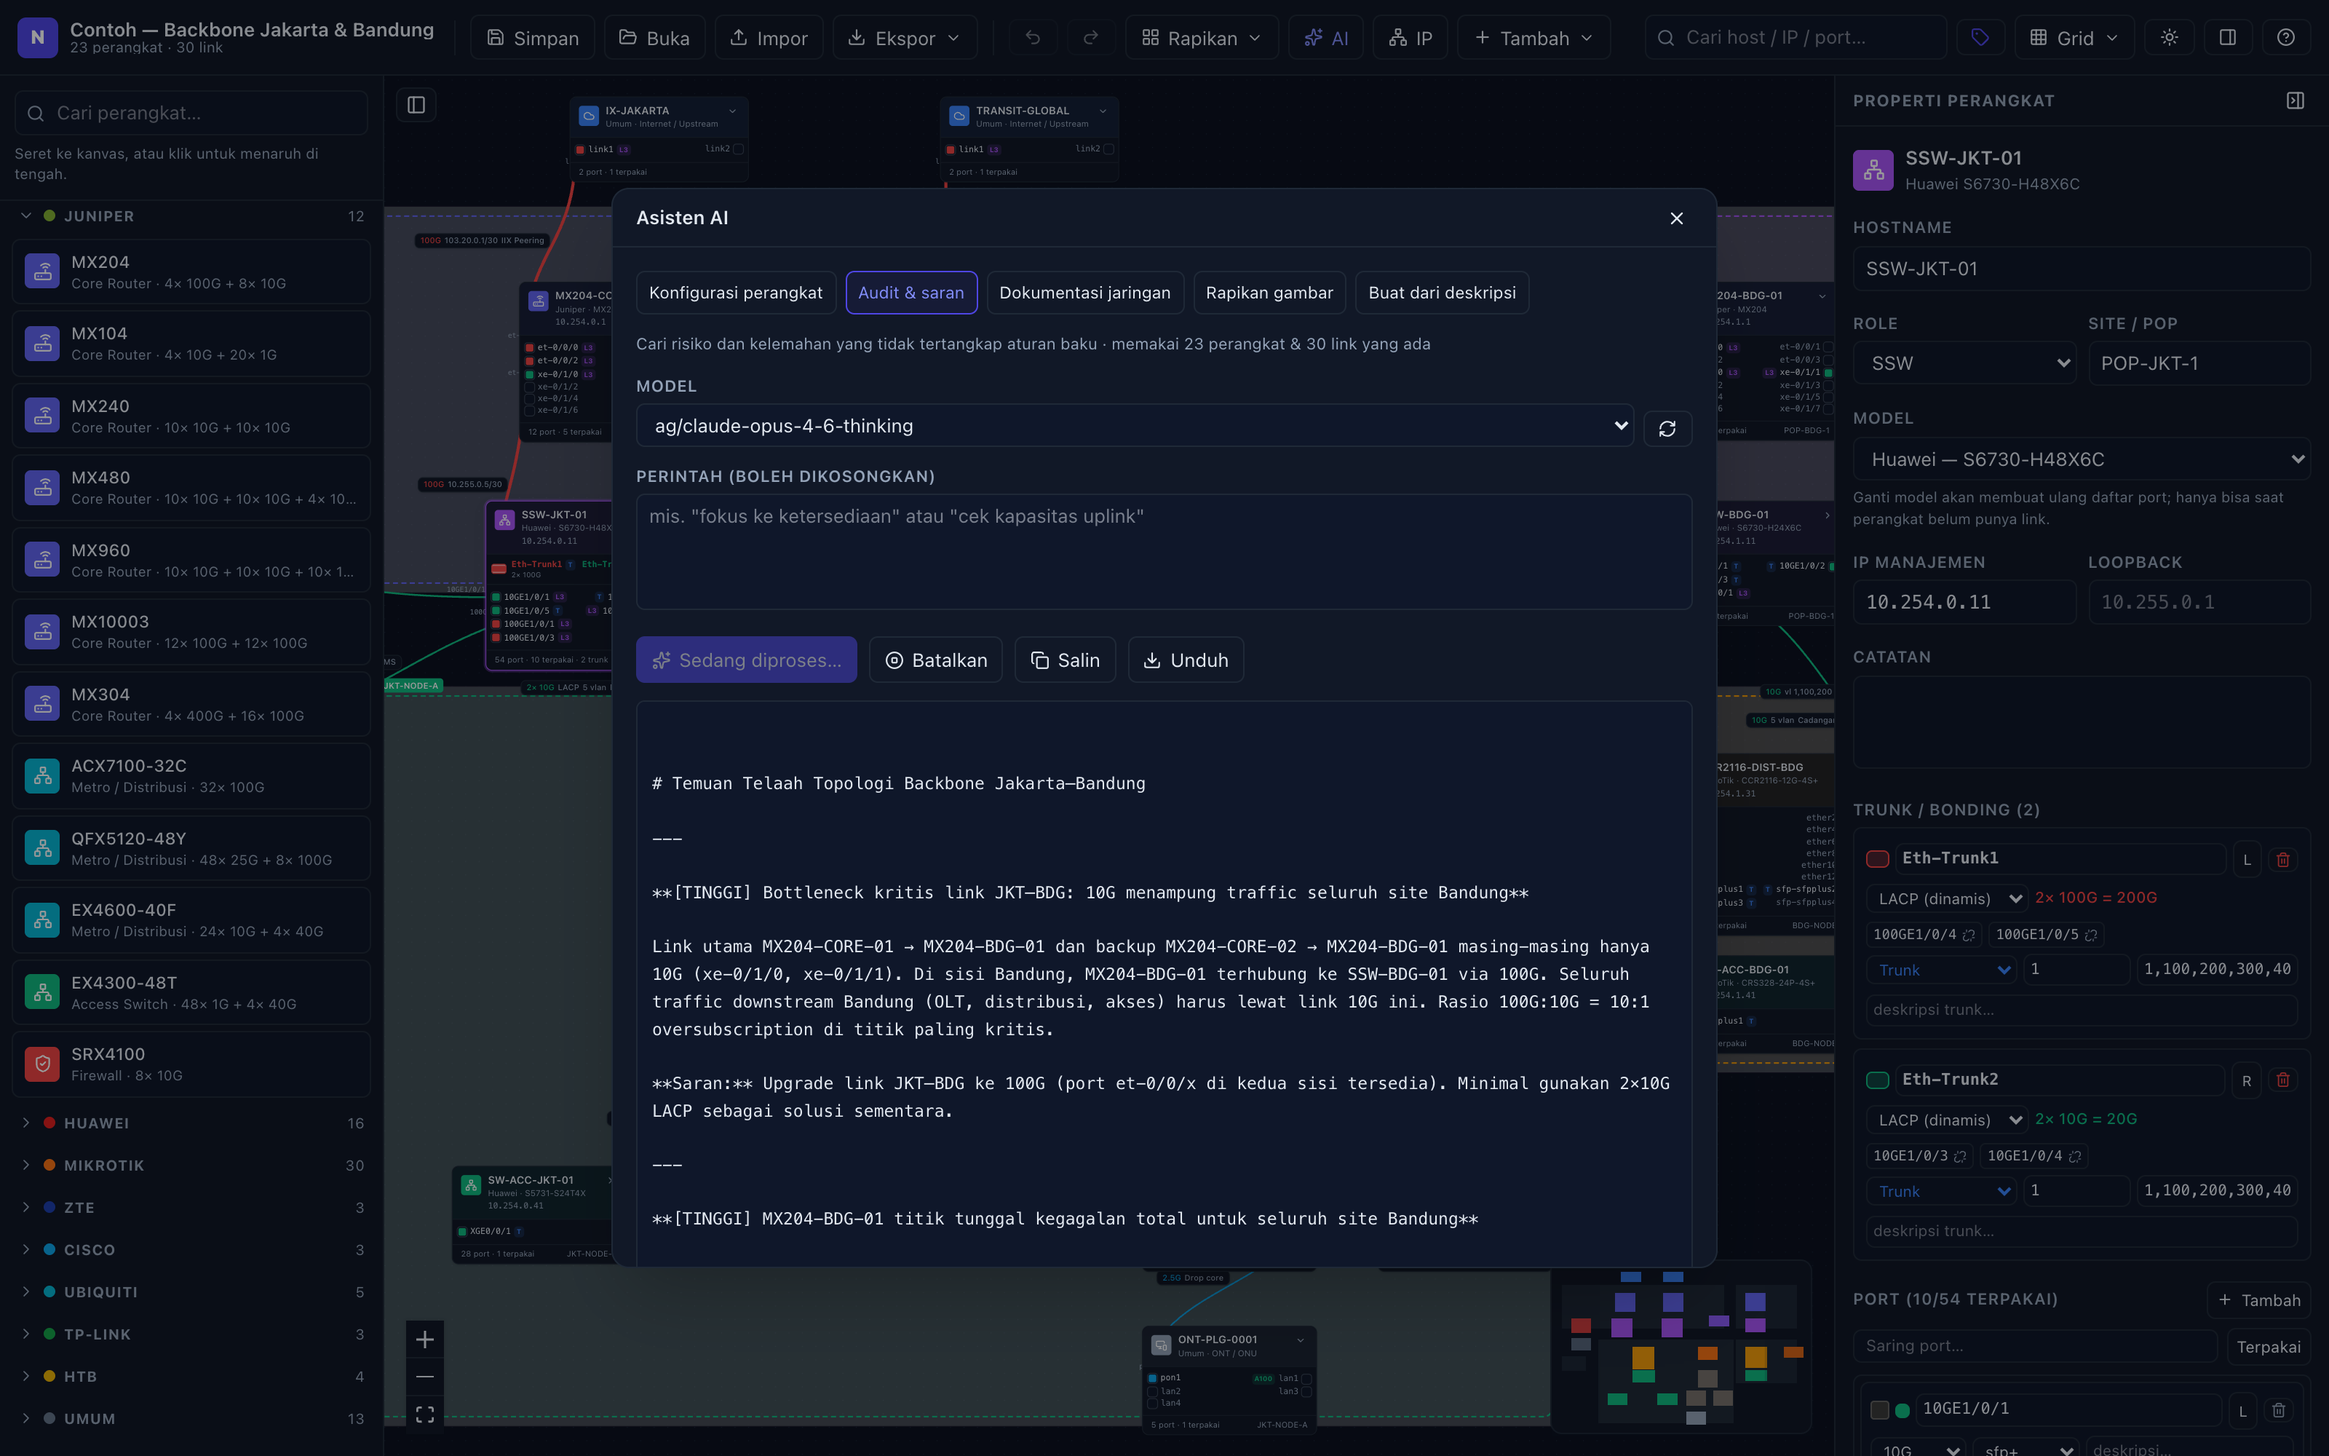
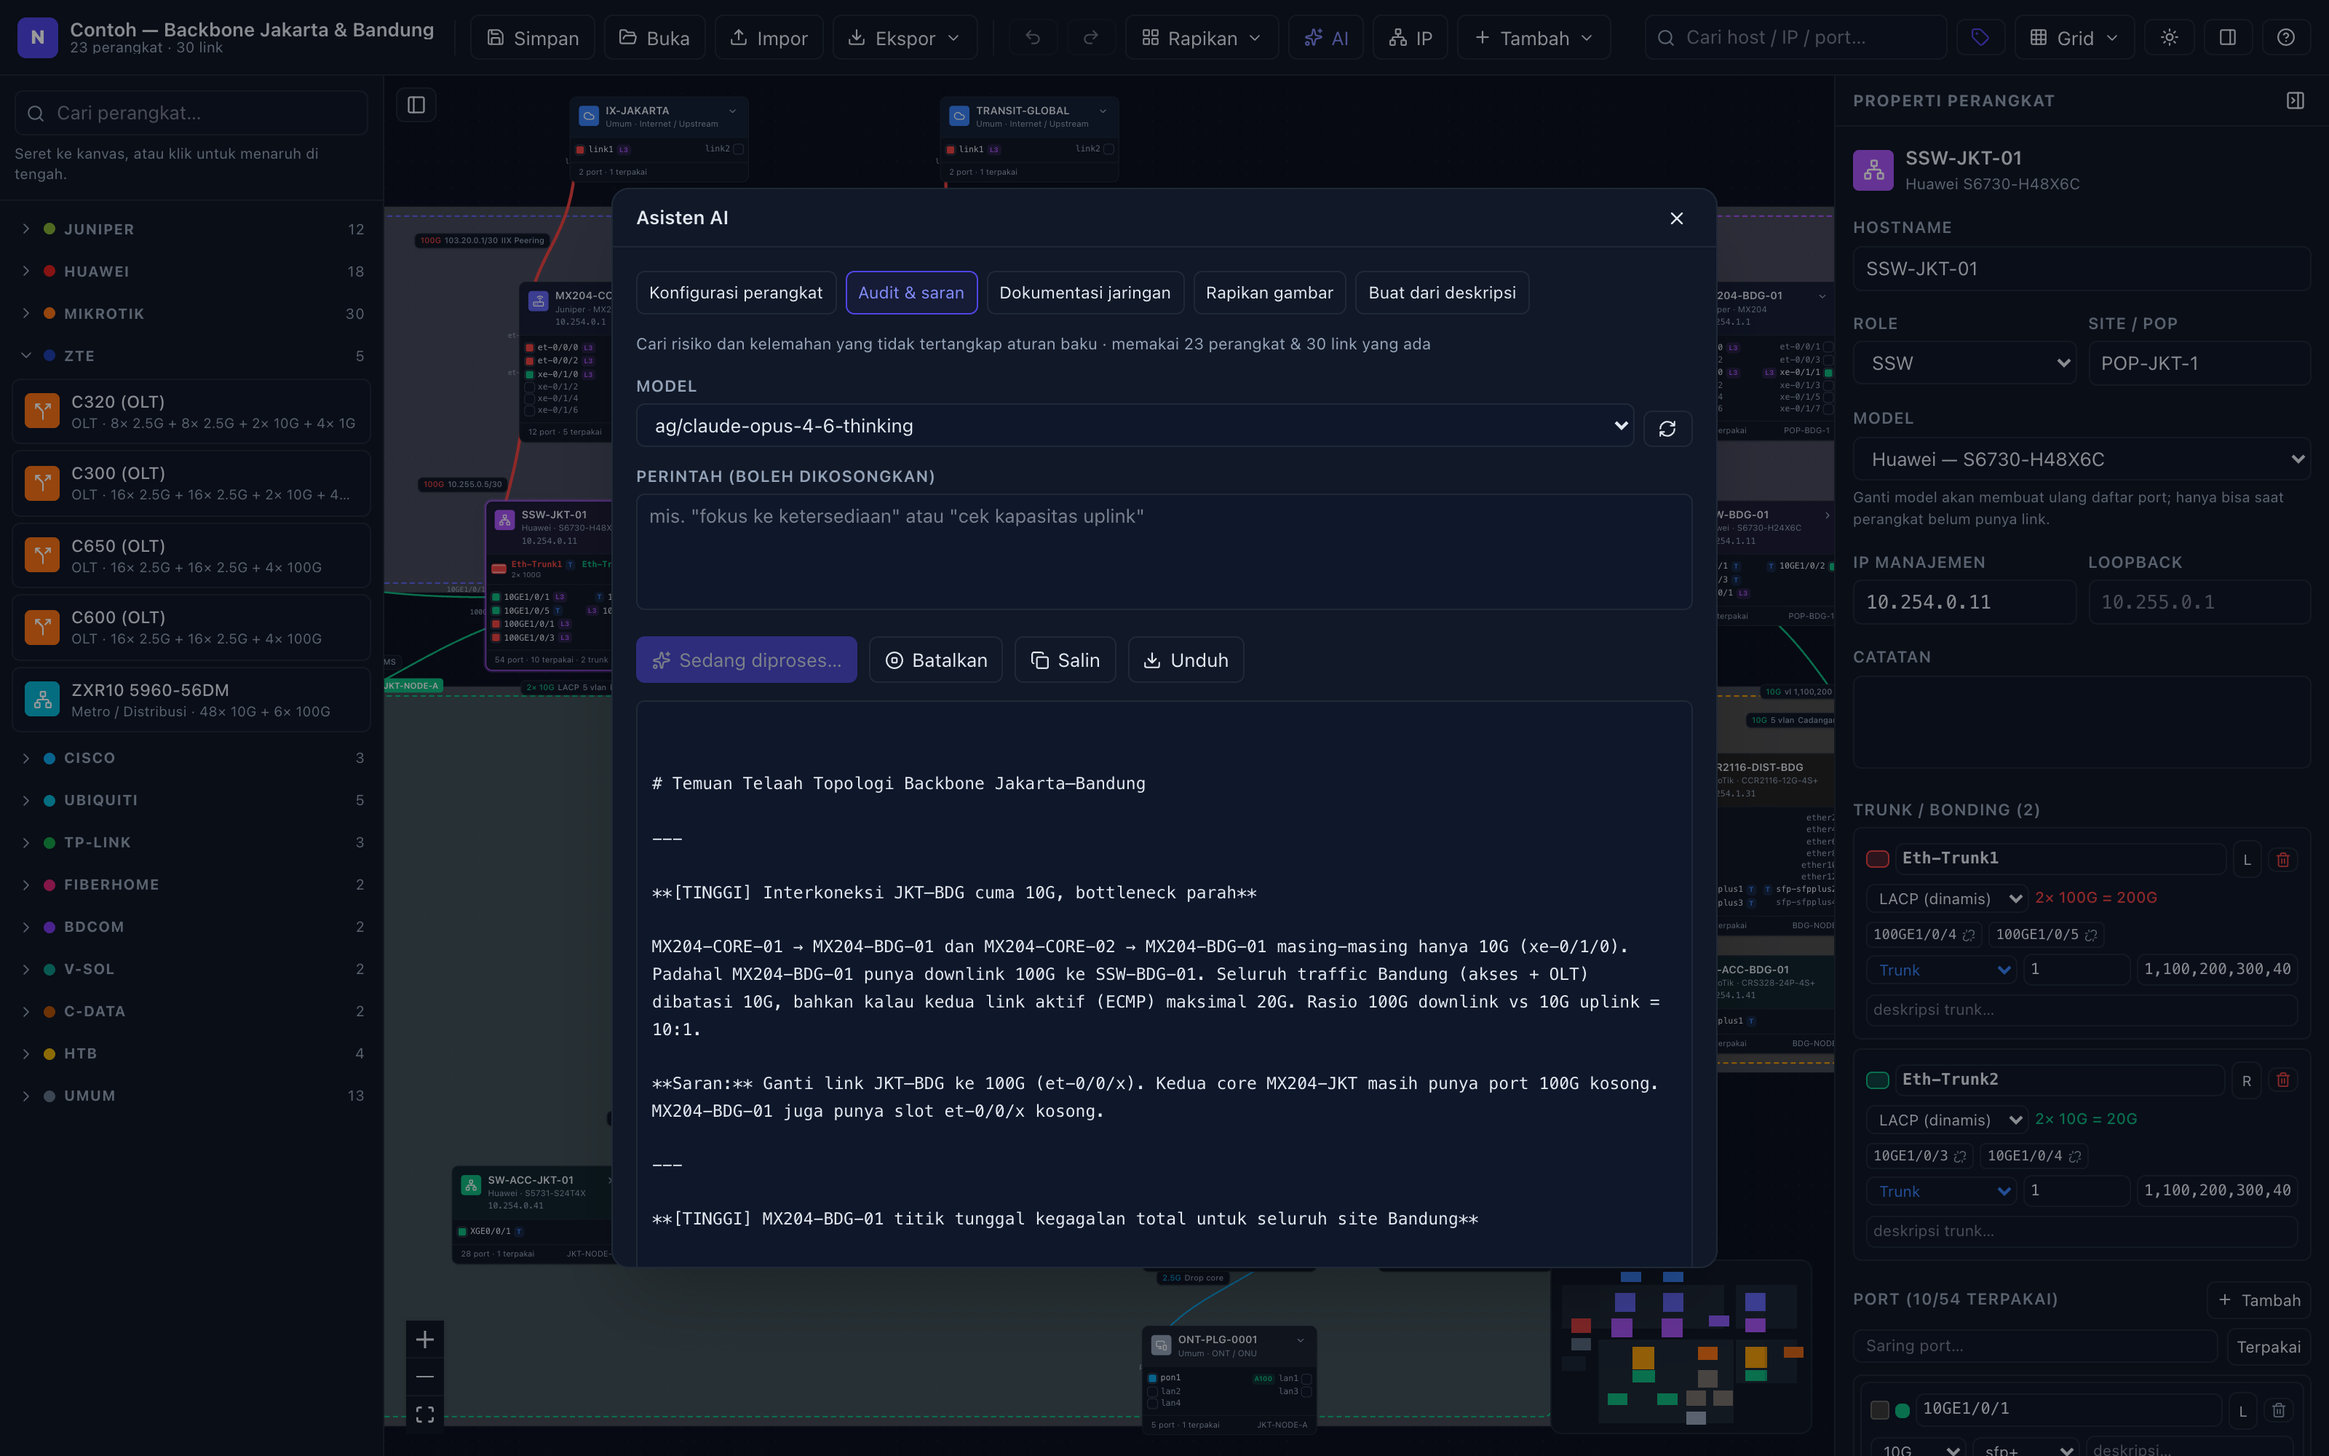
Katalog jadi 101 model: ZTE C300 dan OLT dari enam merek
ZTE C300 belum ada padahal itu OLT yang paling lazim dipakai; ditambahkan
bersama C650. Sisi FTTH diperkuat secara menyeluruh sehingga sekarang ada
16 OLT:

- Huawei: MA5800-X2, MA5800-X15 melengkapi X7 dan MA5608T
- ZTE: C300, C650 melengkapi C320 dan C600
- FiberHome: OLT AN5516-01 dan ONT AN5506-04-F
- BDCOM: P3310B (EPON) dan P3608-2TE (GPON)
- V-SOL: V1600D (EPON) dan V1600G2 (GPON)
- C-Data: FD1216S dan FD1104S

Penamaan port Juniper, Huawei, MikroTik, ZTE, dan Cisco mengikuti konvensi
resmi vendornya. Untuk FiberHome, BDCOM, V-SOL, dan C-Data saya tidak bisa
memverifikasinya langsung, jadi penamaannya adalah perkiraan yang wajar dan
diberi tanda "cocokkan dengan perangkat Anda" pada catatan tiap model —
tanda itu tampil di tooltip palette, bukan cuma di dokumentasi, karena nama
port yang salah akan merembet ke hasil generate konfigurasi dan fitur buat
dari deskripsi.

Gambar katalog dibuat ulang: dengan 13 merek, Juniper ditutup dan ZTE dibuka
supaya deretan OLT-nya terlihat sekaligus seluruh merek muat dalam satu
bingkai.

diff --git a/src/data/deviceCatalog.ts b/src/data/deviceCatalog.ts
@@ -19,6 +19,10 @@ export type Vendor =
   | 'cisco'
   | 'ubiquiti'
   | 'tplink'
+  | 'fiberhome'
+  | 'bdcom'
+  | 'vsol'
+  | 'cdata'
   | 'htb'
   | 'generic'
 
@@ -56,6 +60,10 @@ export const VENDOR_META: Record<Vendor, { label: string; color: string }> = {
   cisco: { label: 'Cisco', color: '#0ea5e9' },
   ubiquiti: { label: 'Ubiquiti', color: '#06b6d4' },
   tplink: { label: 'TP-Link', color: '#16a34a' },
+  fiberhome: { label: 'FiberHome', color: '#db2777' },
+  bdcom: { label: 'BDCOM', color: '#7c3aed' },
+  vsol: { label: 'V-SOL', color: '#0d9488' },
+  cdata: { label: 'C-Data', color: '#b45309' },
   htb: { label: 'HTB', color: '#eab308' },
   generic: { label: 'Umum', color: '#64748b' },
 }
@@ -68,6 +76,10 @@ export const VENDOR_ORDER: Vendor[] = [
   'cisco',
   'ubiquiti',
   'tplink',
+  'fiberhome',
+  'bdcom',
+  'vsol',
+  'cdata',
   'htb',
   'generic',
 ]
@@ -377,6 +389,37 @@ export const DEVICE_CATALOG: DeviceModel[] = [
       { prefix: 'GPON0/0/', count: 8, startIndex: 0, speed: '2.5G', media: 'sfp', group: 'PON slot 0' },
       { prefix: 'GPON0/1/', count: 8, startIndex: 0, speed: '2.5G', media: 'sfp', group: 'PON slot 1' },
       { prefix: 'XGE0/2/', count: 2, startIndex: 0, speed: '10G', media: 'sfp+', group: 'Uplink' },
+    ],
+  },
+
+  {
+    id: 'huawei-ma5800-x15',
+    vendor: 'huawei',
+    series: 'MA5800',
+    model: 'MA5800-X15 (OLT)',
+    role: 'olt',
+    os: 'vrp',
+    note: 'OLT besar - contoh 3 board 16 PON + uplink 10GE dan 100GE',
+    ports: [
+      { prefix: 'GPON0/1/', count: 16, startIndex: 0, speed: '2.5G', media: 'sfp', group: 'PON board 1' },
+      { prefix: 'GPON0/2/', count: 16, startIndex: 0, speed: '2.5G', media: 'sfp', group: 'PON board 2' },
+      { prefix: 'GPON0/3/', count: 16, startIndex: 0, speed: '2.5G', media: 'sfp', group: 'PON board 3' },
+      { prefix: 'XGE0/9/', count: 4, startIndex: 0, speed: '10G', media: 'sfp+', group: 'Uplink 10GE' },
+      { prefix: '100GE0/10/', count: 2, startIndex: 0, speed: '100G', media: 'qsfp28', group: 'Uplink 100GE' },
+    ],
+  },
+  {
+    id: 'huawei-ma5800-x2',
+    vendor: 'huawei',
+    series: 'MA5800',
+    model: 'MA5800-X2 (OLT)',
+    role: 'olt',
+    os: 'vrp',
+    note: 'OLT ringkas - contoh 2 board 16 PON + uplink 10GE',
+    ports: [
+      { prefix: 'GPON0/1/', count: 16, startIndex: 0, speed: '2.5G', media: 'sfp', group: 'PON board 1' },
+      { prefix: 'GPON0/2/', count: 16, startIndex: 0, speed: '2.5G', media: 'sfp', group: 'PON board 2' },
+      { prefix: 'XGE0/0/', count: 4, startIndex: 0, speed: '10G', media: 'sfp+', group: 'Uplink' },
     ],
   },
 
@@ -758,6 +801,35 @@ export const DEVICE_CATALOG: DeviceModel[] = [
     ],
   },
   {
+    id: 'zte-c300',
+    vendor: 'zte',
+    series: 'ZXA10',
+    model: 'C300 (OLT)',
+    role: 'olt',
+    os: 'other',
+    note: 'OLT GPON chassis - contoh 2 board 16 PON + uplink 10GE',
+    ports: [
+      { prefix: 'gpon-olt_1/1/', count: 16, startIndex: 1, speed: '2.5G', media: 'sfp', group: 'PON slot 1' },
+      { prefix: 'gpon-olt_1/2/', count: 16, startIndex: 1, speed: '2.5G', media: 'sfp', group: 'PON slot 2' },
+      { prefix: 'xgei_1/9/', count: 2, startIndex: 1, speed: '10G', media: 'sfp+', group: 'Uplink 10GE' },
+      { prefix: 'gei_1/9/', count: 4, startIndex: 3, speed: '1G', media: 'sfp', group: 'Uplink GE' },
+    ],
+  },
+  {
+    id: 'zte-c650',
+    vendor: 'zte',
+    series: 'ZXA10',
+    model: 'C650 (OLT)',
+    role: 'olt',
+    os: 'other',
+    note: 'OLT kapasitas tinggi - contoh 2 board 16 PON + uplink 100GE',
+    ports: [
+      { prefix: 'gpon-olt_1/1/', count: 16, startIndex: 1, speed: '2.5G', media: 'sfp', group: 'PON slot 1' },
+      { prefix: 'gpon-olt_1/2/', count: 16, startIndex: 1, speed: '2.5G', media: 'sfp', group: 'PON slot 2' },
+      { prefix: 'cei_1/9/', count: 4, startIndex: 1, speed: '100G', media: 'qsfp28', group: 'Uplink 100GE' },
+    ],
+  },
+  {
     id: 'zte-c600',
     vendor: 'zte',
     series: 'ZXA10',
@@ -1028,6 +1100,125 @@ export const DEVICE_CATALOG: DeviceModel[] = [
     ports: [
       { prefix: 'sfp', count: 1, startIndex: 1, speed: '1G', media: 'sfp', group: 'Fiber' },
       { prefix: 'utp', count: 1, startIndex: 1, speed: '1G', media: 'rj45', group: 'Tembaga' },
+    ],
+  },
+
+  /* -- FiberHome ---------------------------------------------------------- */
+  {
+    id: 'fiberhome-an5516-01',
+    vendor: 'fiberhome',
+    series: 'AN5516',
+    model: 'AN5516-01 (OLT)',
+    role: 'olt',
+    os: 'other',
+    note: 'OLT GPON chassis - contoh 2 board 16 PON + uplink 10GE (penamaan port contoh, cocokkan dengan perangkat Anda)',
+    ports: [
+      { prefix: 'gpon1/1/', count: 16, startIndex: 1, speed: '2.5G', media: 'sfp', group: 'PON slot 1' },
+      { prefix: 'gpon1/2/', count: 16, startIndex: 1, speed: '2.5G', media: 'sfp', group: 'PON slot 2' },
+      { prefix: 'xge1/9/', count: 2, startIndex: 1, speed: '10G', media: 'sfp+', group: 'Uplink 10GE' },
+      { prefix: 'ge1/9/', count: 4, startIndex: 3, speed: '1G', media: 'sfp', group: 'Uplink GE' },
+    ],
+  },
+  {
+    id: 'fiberhome-an5506-04',
+    vendor: 'fiberhome',
+    series: 'AN5506',
+    model: 'AN5506-04-F (ONT)',
+    role: 'cpe',
+    os: 'other',
+    note: 'ONT GPON pelanggan - 1x PON + 4x LAN',
+    ports: [
+      { prefix: 'pon', count: 1, startIndex: 1, speed: '2.5G', media: 'sfp', group: 'PON' },
+      { prefix: 'lan', count: 4, startIndex: 1, speed: '1G', media: 'rj45', group: 'LAN' },
+    ],
+  },
+
+  /* -- BDCOM -------------------------------------------------------------- */
+  {
+    id: 'bdcom-p3310b',
+    vendor: 'bdcom',
+    series: 'P3310',
+    model: 'P3310B (OLT EPON)',
+    role: 'olt',
+    os: 'other',
+    note: 'OLT EPON - 8 PON + uplink GE dan 10GE (penamaan port contoh, cocokkan dengan perangkat Anda)',
+    ports: [
+      { prefix: 'EPON0/', count: 8, startIndex: 1, speed: '1G', media: 'sfp', group: 'EPON' },
+      { prefix: 'GigaEthernet0/', count: 4, startIndex: 1, speed: '1G', media: 'sfp', group: 'Uplink GE' },
+      { prefix: 'TGigaEthernet0/', count: 2, startIndex: 1, speed: '10G', media: 'sfp+', group: 'Uplink 10GE' },
+    ],
+  },
+  {
+    id: 'bdcom-p3608',
+    vendor: 'bdcom',
+    series: 'P3608',
+    model: 'P3608-2TE (OLT GPON)',
+    role: 'olt',
+    os: 'other',
+    note: 'OLT GPON - 8 PON + uplink GE dan 10GE (penamaan port contoh, cocokkan dengan perangkat Anda)',
+    ports: [
+      { prefix: 'GPON0/', count: 8, startIndex: 1, speed: '2.5G', media: 'sfp', group: 'GPON' },
+      { prefix: 'GigaEthernet0/', count: 4, startIndex: 1, speed: '1G', media: 'sfp', group: 'Uplink GE' },
+      { prefix: 'TGigaEthernet0/', count: 2, startIndex: 1, speed: '10G', media: 'sfp+', group: 'Uplink 10GE' },
+    ],
+  },
+
+  /* -- V-SOL -------------------------------------------------------------- */
+  {
+    id: 'vsol-v1600d',
+    vendor: 'vsol',
+    series: 'V1600',
+    model: 'V1600D (OLT EPON)',
+    role: 'olt',
+    os: 'other',
+    note: 'OLT EPON ringkas - 4 PON + uplink GE dan 10GE (penamaan port contoh, cocokkan dengan perangkat Anda)',
+    ports: [
+      { prefix: 'epon0/', count: 4, startIndex: 1, speed: '1G', media: 'sfp', group: 'EPON' },
+      { prefix: 'ge0/', count: 4, startIndex: 1, speed: '1G', media: 'rj45', group: 'Uplink GE' },
+      { prefix: 'xge0/', count: 2, startIndex: 1, speed: '10G', media: 'sfp+', group: 'Uplink 10GE' },
+    ],
+  },
+  {
+    id: 'vsol-v1600g2',
+    vendor: 'vsol',
+    series: 'V1600',
+    model: 'V1600G2 (OLT GPON)',
+    role: 'olt',
+    os: 'other',
+    note: 'OLT GPON ringkas - 2 PON + uplink GE dan 10GE (penamaan port contoh, cocokkan dengan perangkat Anda)',
+    ports: [
+      { prefix: 'gpon0/', count: 2, startIndex: 1, speed: '2.5G', media: 'sfp', group: 'GPON' },
+      { prefix: 'ge0/', count: 4, startIndex: 1, speed: '1G', media: 'rj45', group: 'Uplink GE' },
+      { prefix: 'xge0/', count: 2, startIndex: 1, speed: '10G', media: 'sfp+', group: 'Uplink 10GE' },
+    ],
+  },
+
+  /* -- C-Data ------------------------------------------------------------- */
+  {
+    id: 'cdata-fd1216s',
+    vendor: 'cdata',
+    series: 'FD1200',
+    model: 'FD1216S (OLT GPON)',
+    role: 'olt',
+    os: 'other',
+    note: 'OLT GPON 16 PON + uplink GE dan 10GE (penamaan port contoh, cocokkan dengan perangkat Anda)',
+    ports: [
+      { prefix: 'gpon0/', count: 16, startIndex: 1, speed: '2.5G', media: 'sfp', group: 'GPON' },
+      { prefix: 'ge0/', count: 4, startIndex: 1, speed: '1G', media: 'sfp', group: 'Uplink GE' },
+      { prefix: 'xge0/', count: 2, startIndex: 1, speed: '10G', media: 'sfp+', group: 'Uplink 10GE' },
+    ],
+  },
+  {
+    id: 'cdata-fd1104s',
+    vendor: 'cdata',
+    series: 'FD1100',
+    model: 'FD1104S (OLT GPON)',
+    role: 'olt',
+    os: 'other',
+    note: 'OLT GPON 4 PON + uplink GE (penamaan port contoh, cocokkan dengan perangkat Anda)',
+    ports: [
+      { prefix: 'gpon0/', count: 4, startIndex: 1, speed: '2.5G', media: 'sfp', group: 'GPON' },
+      { prefix: 'ge0/', count: 4, startIndex: 1, speed: '1G', media: 'rj45', group: 'Uplink GE' },
     ],
   },
 

diff --git a/src/data/deviceCatalog.test.ts b/src/data/deviceCatalog.test.ts
@@ -95,6 +95,6 @@ describe('integritas katalog', () => {
   })
 
   it('katalog cukup banyak untuk dipakai sehari-hari', () => {
-    expect(DEVICE_CATALOG.length).toBeGreaterThanOrEqual(85)
+    expect(DEVICE_CATALOG.length).toBeGreaterThanOrEqual(100)
   })
 })

diff --git a/README.md b/README.md
@@ -290,21 +290,32 @@ tidak meninggalkan mesin Anda.
 
 <img src="docs/img/04-katalog.png" width="300" align="right" alt="Katalog perangkat per merek">
 
-Katalog berisi **89 model** dari delapan vendor. Di panel kiri tiap merek bisa
-dilipat supaya tidak memenuhi layar — kelompok yang punya hasil pencarian
-terbuka sendiri, dan kelompok mana yang terbuka diingat.
+Katalog berisi **101 model** dari 13 vendor, termasuk **16 OLT** untuk jaringan
+FTTH. Di panel kiri tiap merek bisa dilipat supaya tidak memenuhi layar —
+kelompok yang punya hasil pencarian terbuka sendiri, dan kelompok mana yang
+terbuka diingat.
 
 | Vendor | Jumlah | Contoh model | Pola nama interface |
 |---|---|---|---|
 | **Juniper** | 12 | MX204, MX304, MX480/960, MX10003, ACX7100, QFX5120, EX4600, EX4300, SRX4100 | `ge-0/0/x`, `xe-0/0/x`, `et-0/0/x` |
-| **Huawei** | 16 | NE8000 M8, NE40E-M2K, S5731, S5720, S6730, CE6881, CE6865E, CE8850, MA5800-X7, MA5608T | `GE0/0/x`, `10GE1/0/x`, `100GE0/1/x`, `GPON0/1/x` |
-| **MikroTik** | 30 | CCR1009/1016/1036/1072/2004/2116/2216, RB3011/4011/5009, hEX S, L009, CRS112/305/309/310/312/317/326/328/354/504/518, CSS326/610, netPower | `ether1..n`, `sfp-sfpplus1..n`, `sfp28-1..n`, `qsfp28-1-1` |
-| **ZTE** | 3 | C320, C600 (OLT), ZXR10 5960 | `gpon-olt_1/1/x`, `xgei_1/3/x`, `cei_1/9/x` |
+| **Huawei** | 18 | NE8000 M8, NE40E-M2K, S5731, S5720, S6730, CE6881, CE6865E, CE8850 · OLT MA5800-X2/X7/X15, MA5608T | `GE0/0/x`, `10GE1/0/x`, `100GE0/1/x`, `GPON0/1/x` |
+| **MikroTik** | 30 | CCR1009/1016/1036/1072/2004/2116/2216, RB3011/4011/5009, hEX S, L009, CRS112/305/309/310/312/317/326/328/354/504/518, CSS326/610, netPower | `ether1..n`, `sfp-sfpplus1..n`, `sfp28-1..n` |
+| **ZTE** | 5 | OLT C300, C320, C600, C650 · switch ZXR10 5960 | `gpon-olt_1/x/y`, `xgei_1/9/x`, `cei_1/9/x` |
 | **Cisco** | 3 | ASR920-24SZ-M, ASR1001-X, Catalyst C9300-48P | `GigabitEthernet0/0/x`, `TenGigabitEthernet1/1/x` |
-| **Ubiquiti** | 5 | EdgeRouter 4, EdgeRouter X, UniFi USW-Pro-24-PoE, USW-Aggregation, AP U6-Pro | `eth0..n`, `port1..n`, `sfpplus1..n` |
+| **Ubiquiti** | 5 | EdgeRouter 4 & X, UniFi USW-Pro-24-PoE, USW-Aggregation, AP U6-Pro | `eth0..n`, `port1..n`, `sfpplus1..n` |
 | **TP-Link** | 3 | TL-SG3428X, TL-SG2210P, MC220L | `Gi1/0/x`, `Te1/0/x` |
+| **FiberHome** | 2 | OLT AN5516-01 · ONT AN5506-04-F | `gpon1/x/y`, `xge1/9/x` |
+| **BDCOM** | 2 | OLT P3310B (EPON), P3608-2TE (GPON) | `EPON0/x`, `GPON0/x`, `GigaEthernet0/x` |
+| **V-SOL** | 2 | OLT V1600D (EPON), V1600G2 (GPON) | `epon0/x`, `gpon0/x`, `ge0/x` |
+| **C-Data** | 2 | OLT FD1216S, FD1104S | `gpon0/x`, `ge0/x`, `xge0/x` |
 | **HTB** | 4 | HTB-GS-03, HTB-GS-03 A/B, HTB-1100S, HTB-3100 A/B | `fiber1`, `utp1` |
 | **Umum** | 13 | Router, Switch, Firewall, Server, OLT, ODC, ODP, Splitter 1:8, ONT, AP, Media Converter, CPE, Internet | bebas, port ditambah manual |
+
+Penamaan port Juniper, Huawei, MikroTik, ZTE, dan Cisco mengikuti konvensi
+resmi vendornya. Untuk **FiberHome, BDCOM, V-SOL, dan C-Data**, penamaannya
+adalah perkiraan yang wajar dan diberi tanda di tooltip masing-masing —
+cocokkan dengan keluaran `show interface` perangkat Anda, lalu sesuaikan lewat
+tabel port di panel kanan atau langsung di katalog.
 
 Media converter punya perannya sendiri, jadi auto-layout menaruhnya sejajar
 lapisan akses — bukan ikut turun ke lapisan pelanggan.
